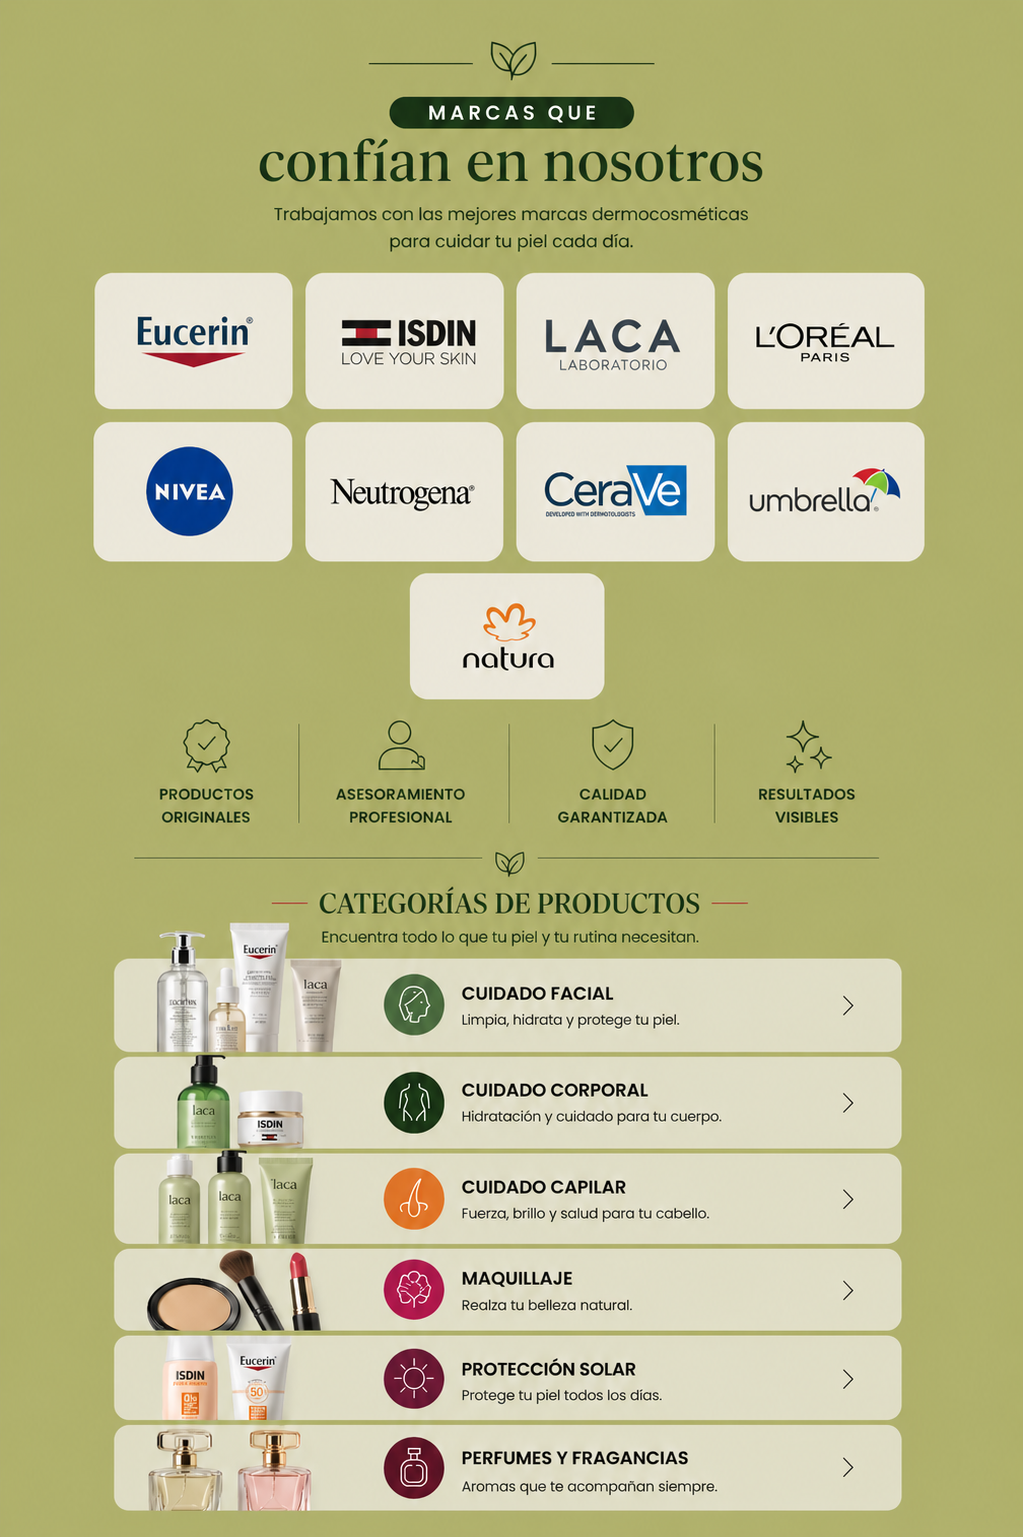
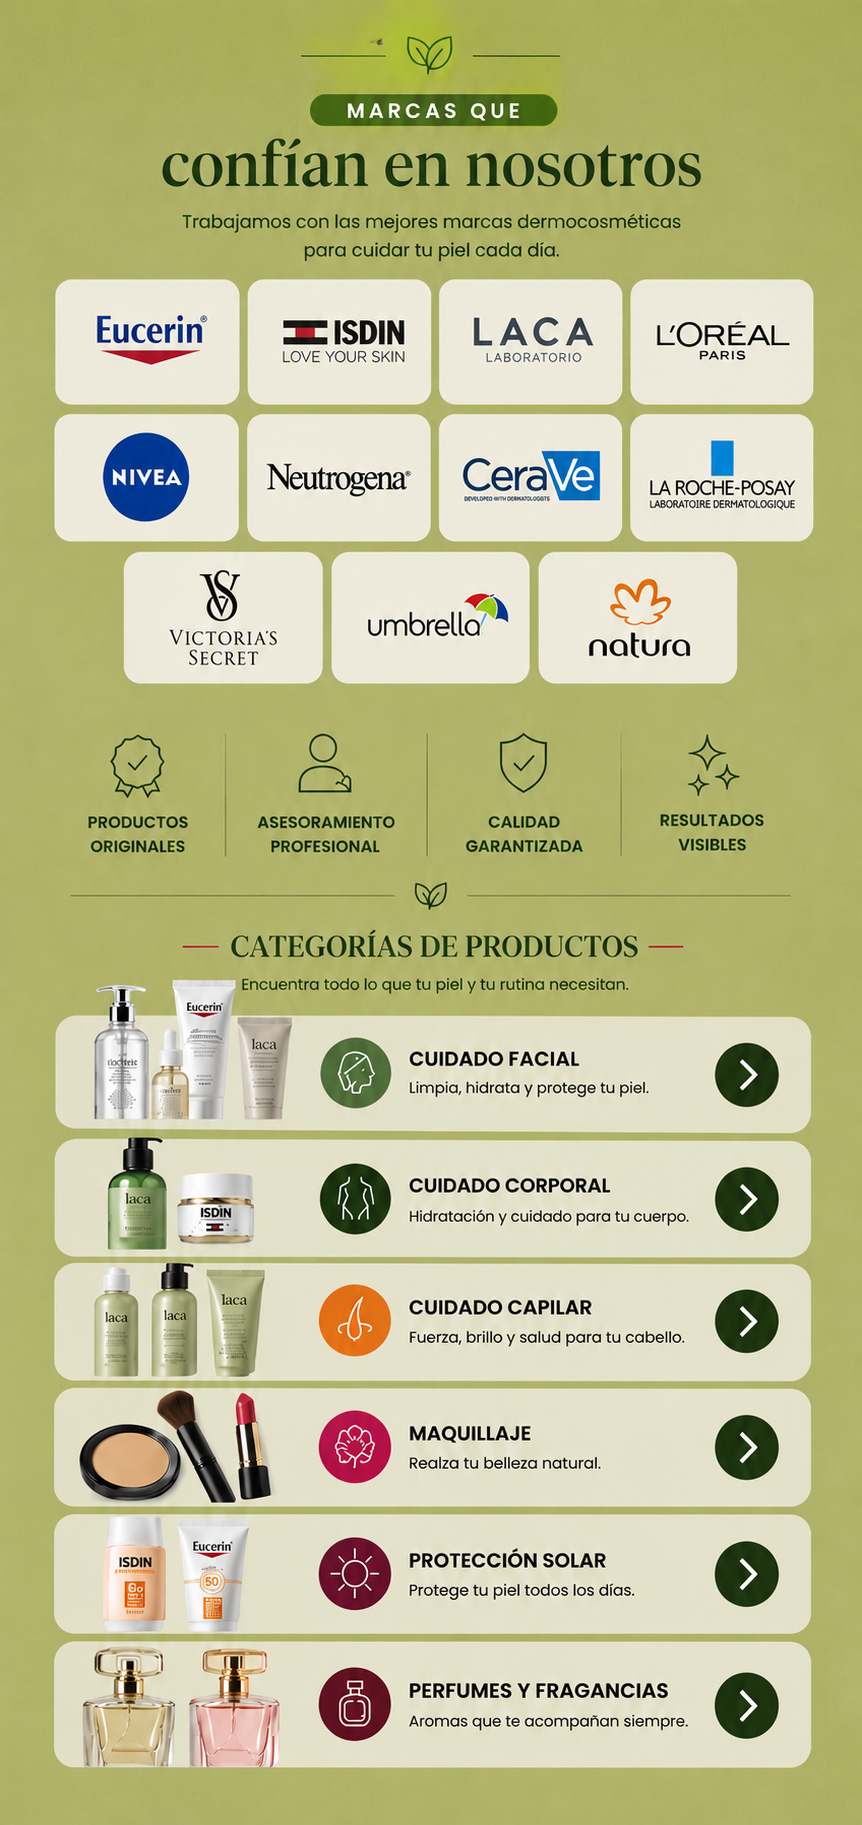
23 de mayo

diff --git a/style.css b/style.css
@@ -48,18 +48,19 @@ body::before{
 /* Zonas generales */
 .zona{
     position:absolute;
-    left:0;
-    width:100%;
+    left:6%;
+    width:88%;
     height:6.5%;
+    border-radius:30px;
 }
 
 /* Botones categorías */
-.z1{ top:62.2%; }
-.z2{ top:68.1%; }
-.z3{ top:74.7%; }
-.z4{ top:80.3%; }
-.z5{ top:86.5%; }
-.z6{ top:92.2%; }
+.z1{ top:55.4%; }
+.z2{ top:62.3%; }
+.z3{ top:69.2%; }
+.z4{ top:76.0%; }
+.z5{ top:81.9%; }
+.z6{ top:89.8%; }
 
 /* Botones contacto */
 .contacto{
